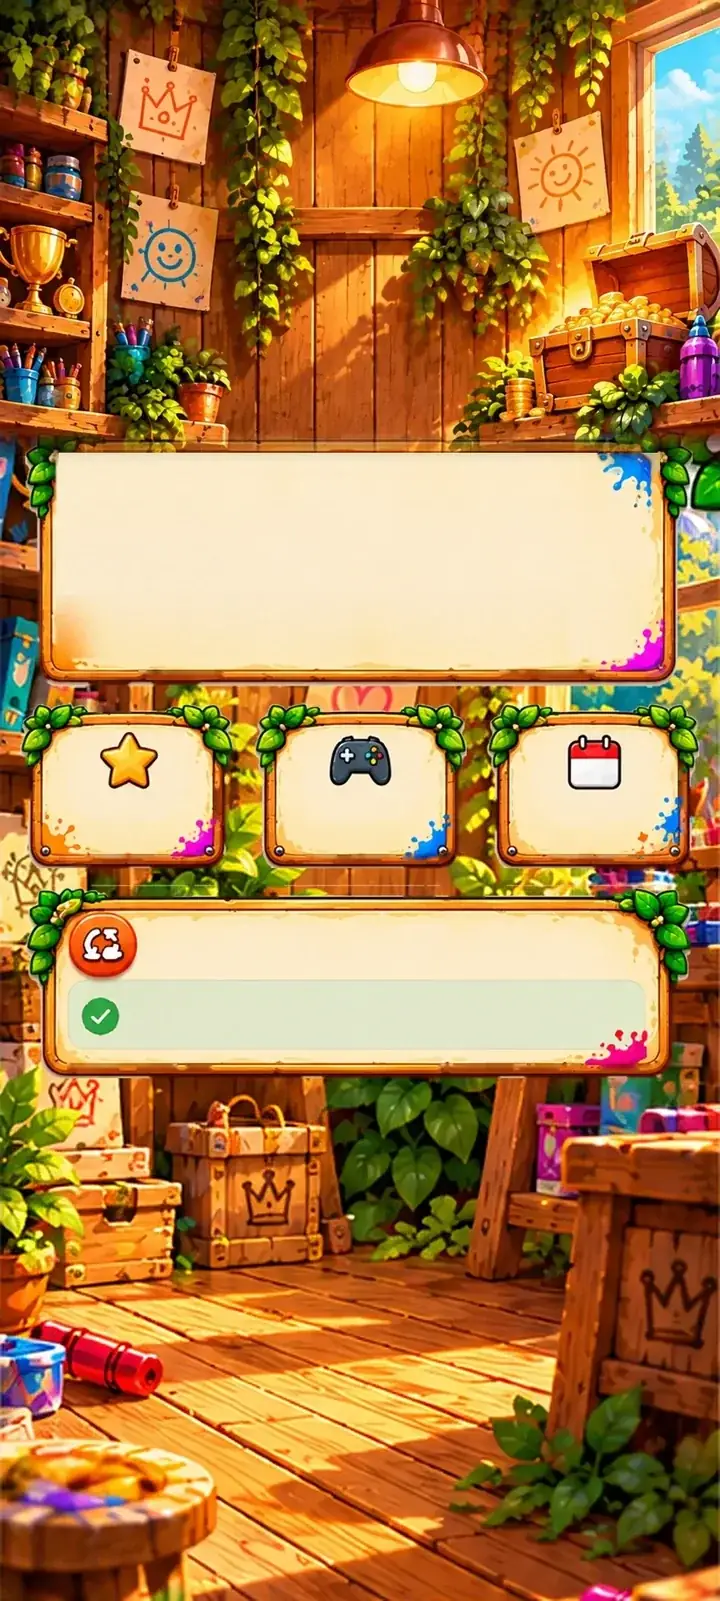
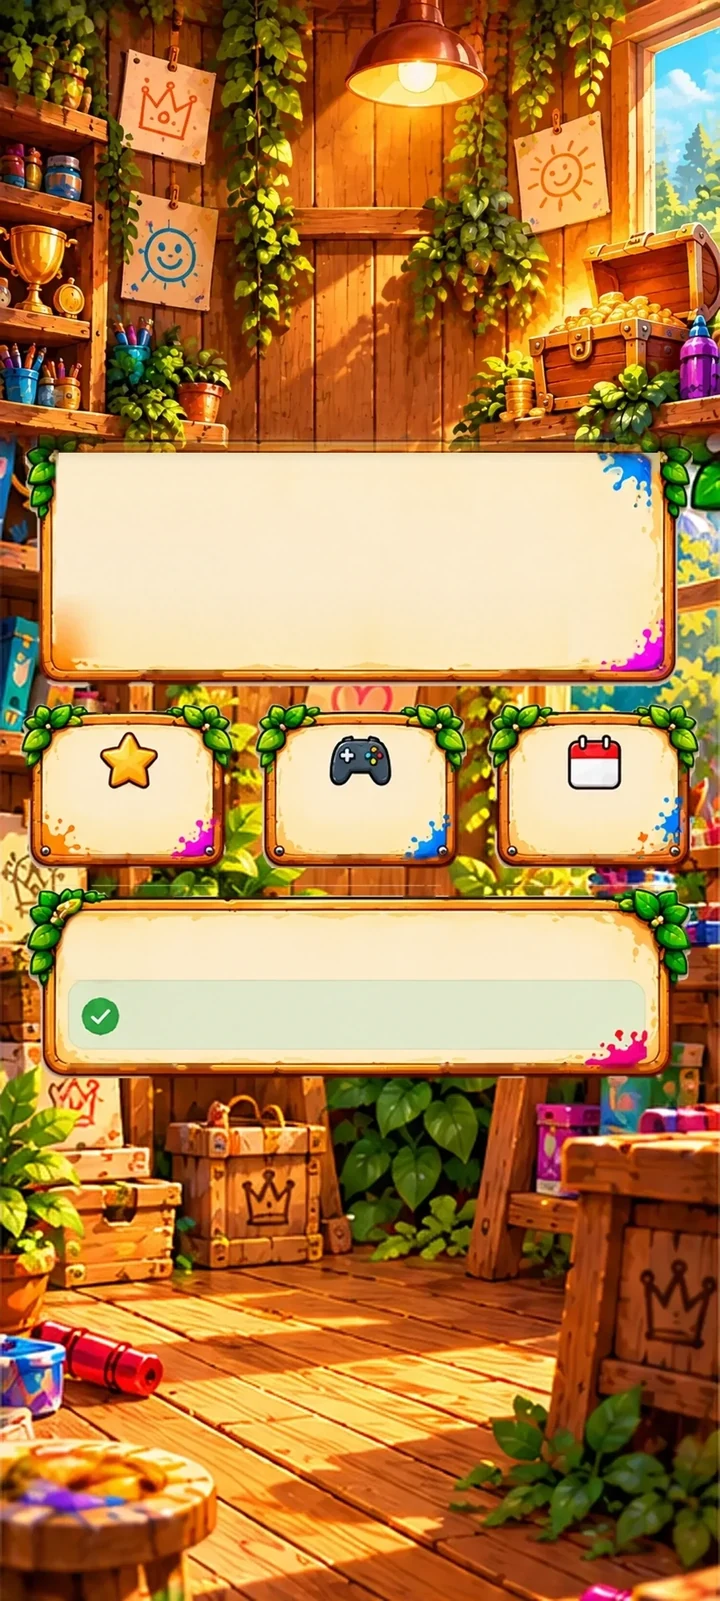
Web Hesap: 'öne çık' satırı kaldırıldı, arka plandaki senkron dairesi temizlendi, maskot güncellendi
Claude-Session: https://claude.ai/code/session_01GTPJxXRvSaaFNooJvhJqfz

Changed region(s): [[0.0611, 0.5621, 0.2139, 0.6246]]

diff --git a/cizim-hafiza/hosting/oyna/account.js b/cizim-hafiza/hosting/oyna/account.js
@@ -17,12 +17,6 @@ const T = {
 };
 let who = null, msg = "", busy = false, linkedNow = false;
 
-// "Videolarda öne çık", as in the app's Hesap screen: off until the player turns it on and agrees to what will be shown. It belongs
-// to the account, so signing in, out or deleting turns it off here (the profile itself keeps what its owner chose).
-const FC = "karalak_feature_consent";
-const fcOn = () => { try { return localStorage.getItem(FC) === "1"; } catch { return false; } };
-const fcSet = (on) => { try { localStorage.setItem(FC, on ? "1" : "0"); } catch {} };
-
 export function layoutAccount(c) {
   const { place, $ } = c;
   place($("ak-back"), 20, 40, 110, 106); place($("ak-sign"), 130, 132, 580, 387); place($("ak-title"), 219, 343, 420, 113);
@@ -33,9 +27,7 @@ export function layoutAccount(c) {
   place($("ak-sec"), 166, 1066, 574, 68); place($("ak-strip"), 166, 1150, 576, 82);
   place($("ak-form"), 110, 1262, 620, 330);
   place($("ak-out"), 120, 1304, 600, 132);
-  // the consent row sits above "delete" for a signed-in player, and under the sign-in form for a guest
-  place($("ak-fc"), 120, linkedNow ? 1484 : 1606, 600, 78);
-  place($("ak-del"), 120, 1584, 600, 76); place($("ak-msg"), 60, linkedNow ? 1680 : 1700, 720, 80);
+  place($("ak-del"), 120, 1460, 600, 76); place($("ak-msg"), 60, linkedNow ? 1560 : 1620, 720, 80);
 }
 
 function backupLine() {
@@ -71,16 +63,6 @@ function paint(c) {
   $("ak-user").placeholder = x.user; $("ak-pass").placeholder = x.pass; $("ak-login-t").textContent = x.login; $("ak-reg-t").textContent = x.create;
   $("ak-out").style.display = linked ? "" : "none"; $("ak-out-t").textContent = S("account_sign_out");
   $("ak-del").textContent = "🗑 " + S("account_delete_action"); $("ak-del").style.display = linked ? "" : "none";
-  $("ak-fc-t").textContent = "🎥 " + S("account_feature_consent"); $("ak-fc").classList.toggle("on", fcOn());
-  $("ak-fc").onclick = () => {
-    if (busy) return;
-    const set = async (on) => {
-      fcSet(on); paint(c);
-      try { await net.publishFeatureConsent(on); } catch { fcSet(!on); msg = x.net; paint(c); }
-    };
-    if (fcOn()) set(false);
-    else c.confirm(S("account_feature_consent_title") + " " + S("account_feature_consent_message", P.nick), S("account_feature_consent_confirm"), () => set(true));
-  };
   const m = $("ak-msg"); m.textContent = msg; m.style.display = msg ? "" : "none";
   const done = (text) => { msg = text; busy = false; c.refreshHome(); renderAccount(c); };
   const read = () => {
@@ -93,7 +75,7 @@ function paint(c) {
   const go = async (fn, okText) => {
     if (busy) return; const v = read(); if (!v) return; busy = true; msg = "…"; renderMsg();
     try {
-      who = await fn(v.name, v.pass); markAccount(true); forgetRemote(); fcSet(false);
+      who = await fn(v.name, v.pass); markAccount(true); forgetRemote();
       const r = await syncNow(c); c.saveP();
       done(r === "restored" ? x.welcome : okText);
     } catch (e) { done(errText(x, e)); }
@@ -103,10 +85,10 @@ function paint(c) {
   $("ak-pass").onkeydown = (e) => { if (e.key === "Enter") $("ak-login").click(); };
   $("ak-out").onclick = () => c.confirm(S("account_sign_out_message"), S("account_sign_out_confirm"), async () => {
     if ((await syncNow(c)) === "error") return done(S("account_sign_out_backup_failed"));
-    try { await net.signOutAccount(); markAccount(false); c.resetProgress(); forgetRemote(); fcSet(false); done(S("account_signed_out_done")); } catch { done(S("account_sign_out_failed")); }
+    try { await net.signOutAccount(); markAccount(false); c.resetProgress(); forgetRemote(); done(S("account_signed_out_done")); } catch { done(S("account_sign_out_failed")); }
   });
   $("ak-del").onclick = () => c.confirm(S("account_delete_message"), S("account_delete_continue"), () => c.confirm(S("account_delete_final_message"), S("account_delete_final_confirm"), async () => {
-    try { await net.deleteAccount(); markAccount(false); c.resetProgress(); forgetRemote(); fcSet(false); done(S("account_delete_done")); }
+    try { await net.deleteAccount(); markAccount(false); c.resetProgress(); forgetRemote(); done(S("account_delete_done")); }
     catch (e) { done(e.code === "auth/requires-recent-login" ? S("account_delete_reauth_needed") : S("account_delete_failed")); }
   }));
 }

diff --git a/cizim-hafiza/hosting/oyna/index.html b/cizim-hafiza/hosting/oyna/index.html
@@ -182,7 +182,6 @@
     <div id="ak-strip" class="txt ink left sm2"></div>
     <div id="ak-form"><input id="ak-user" class="ak-in" autocomplete="username" autocapitalize="none" spellcheck="false" maxlength="16"><input id="ak-pass" class="ak-in" type="password" autocomplete="current-password" maxlength="64"><div class="ak-btns"><button id="ak-login" class="pill orange"><span id="ak-login-t"></span></button><button id="ak-reg" class="pill cream"><span id="ak-reg-t"></span></button></div></div>
     <button id="ak-out" class="pill orange"><span id="ak-out-t"></span></button>
-    <button id="ak-fc" class="fcbtn"><span id="ak-fc-t" class="fitw"></span><i class="sw"></i></button>
     <button id="ak-del" class="delbtn"></button>
     <div id="ak-msg" class="txt capmsg"></div>
   </section>
